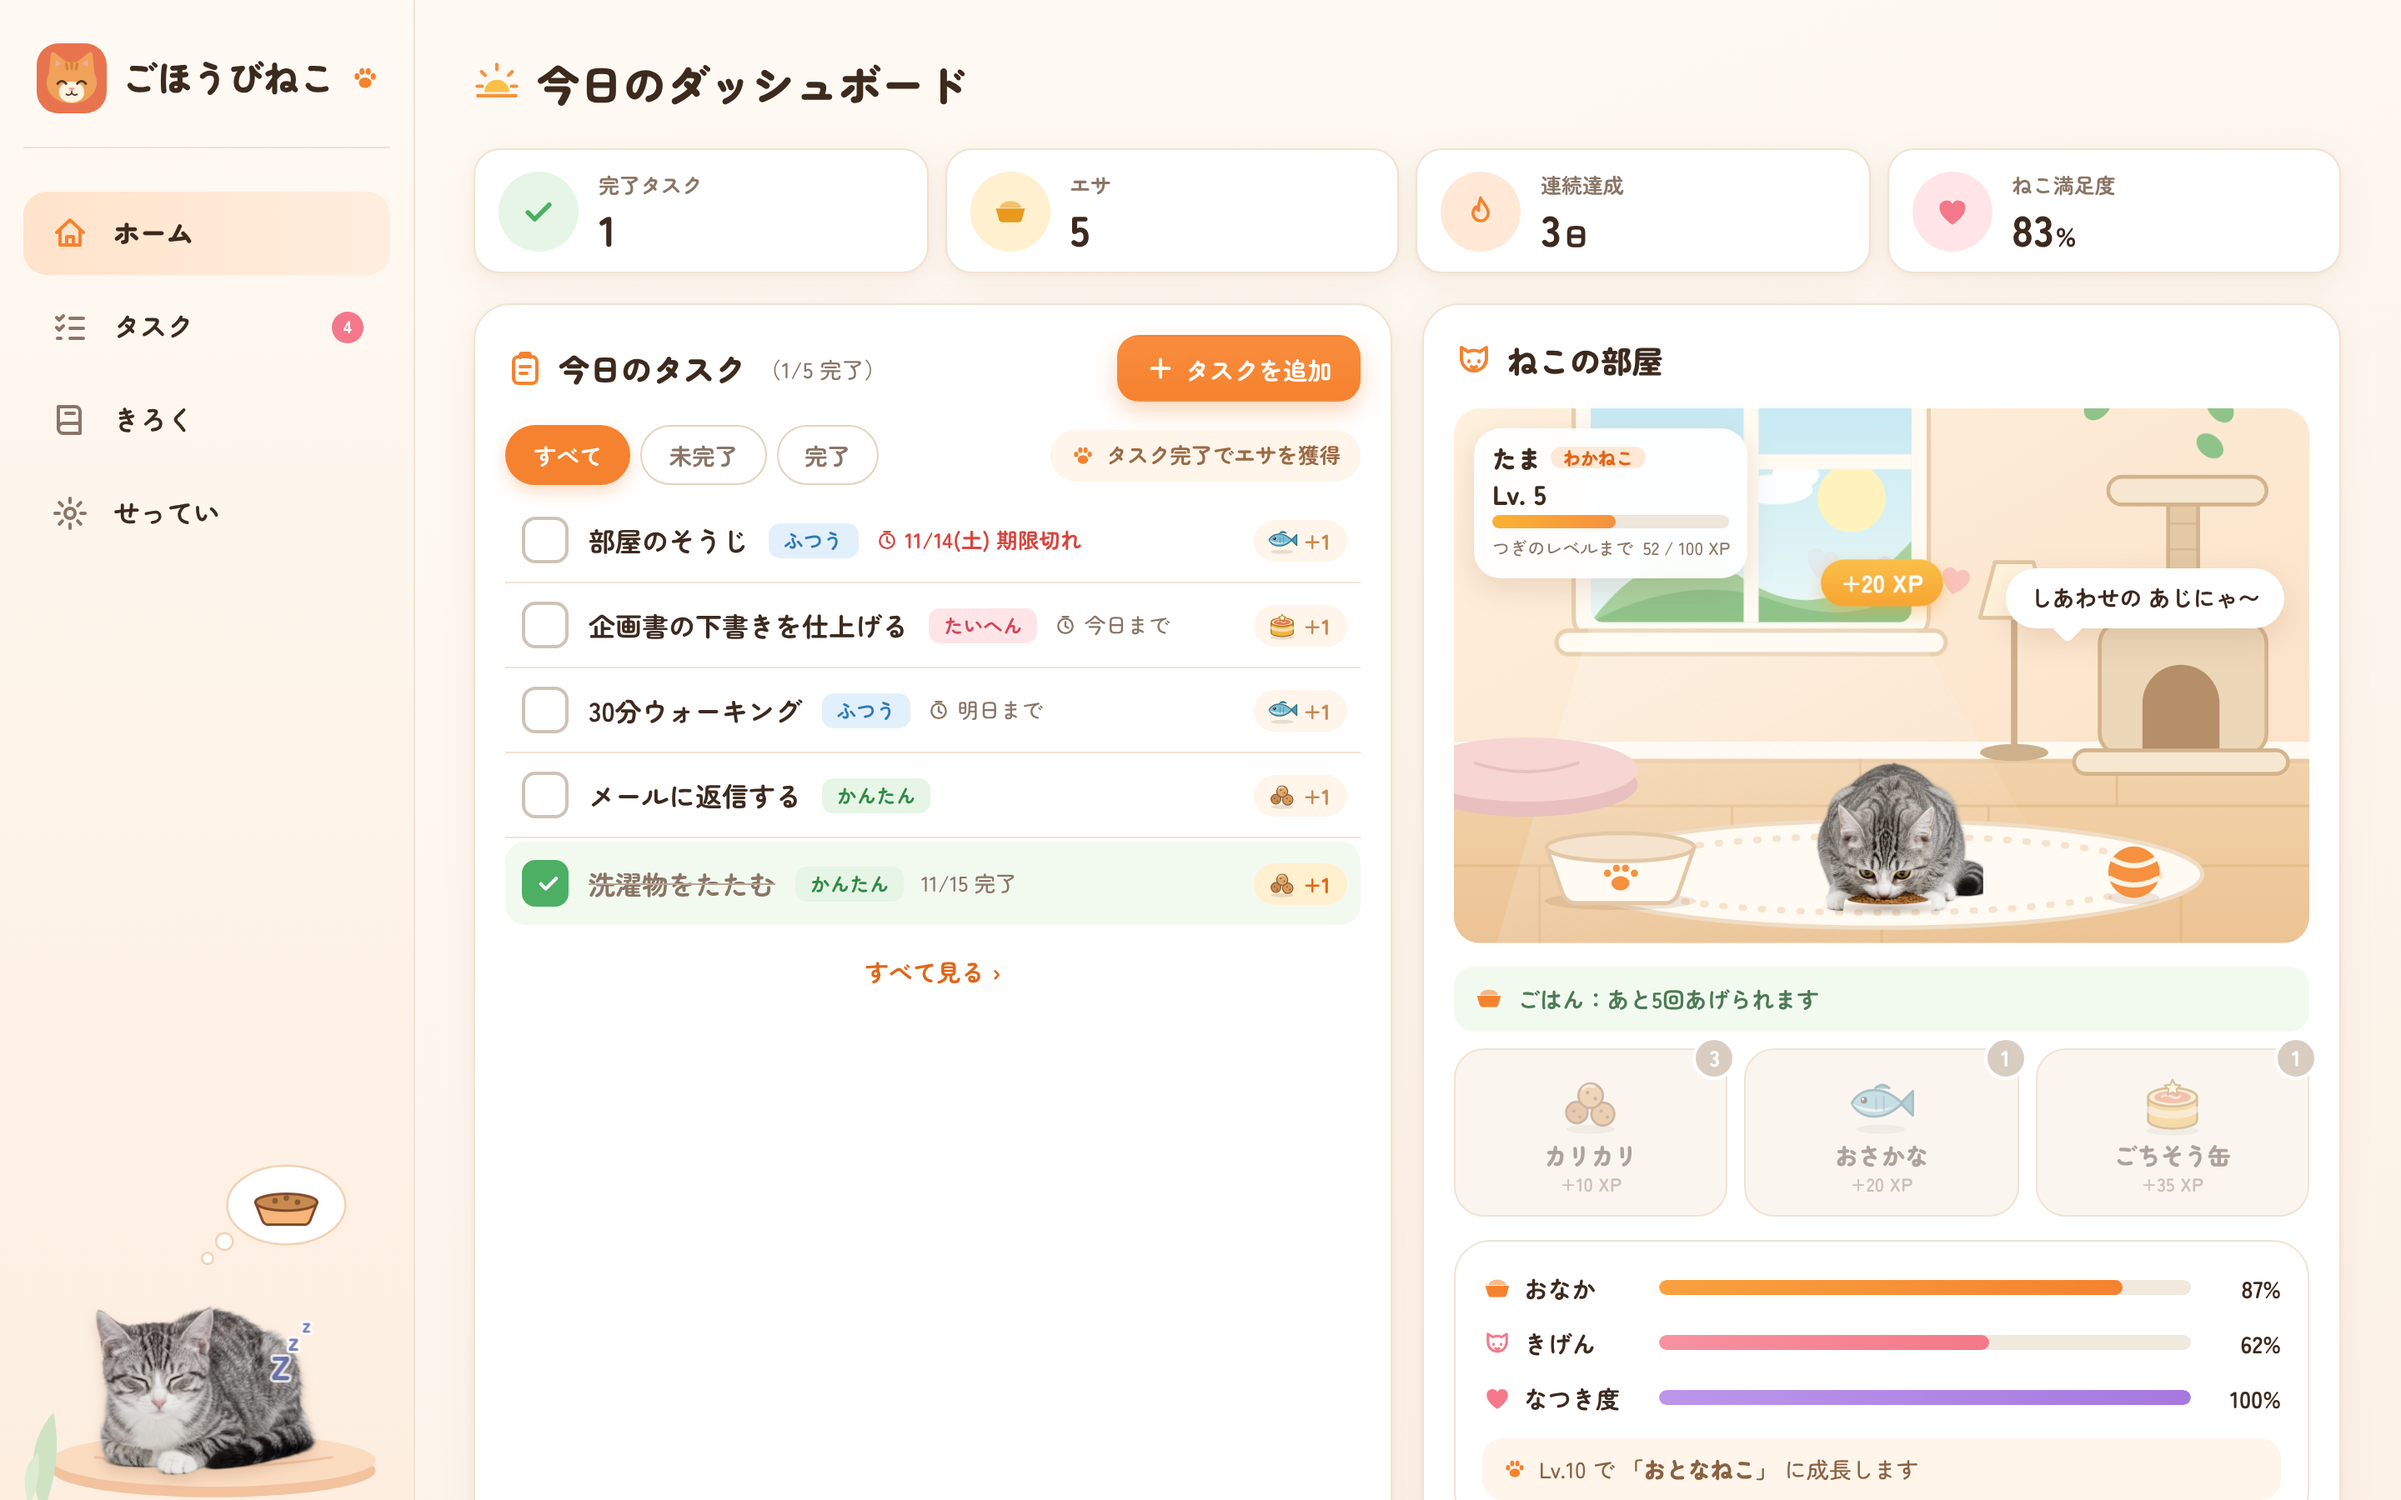
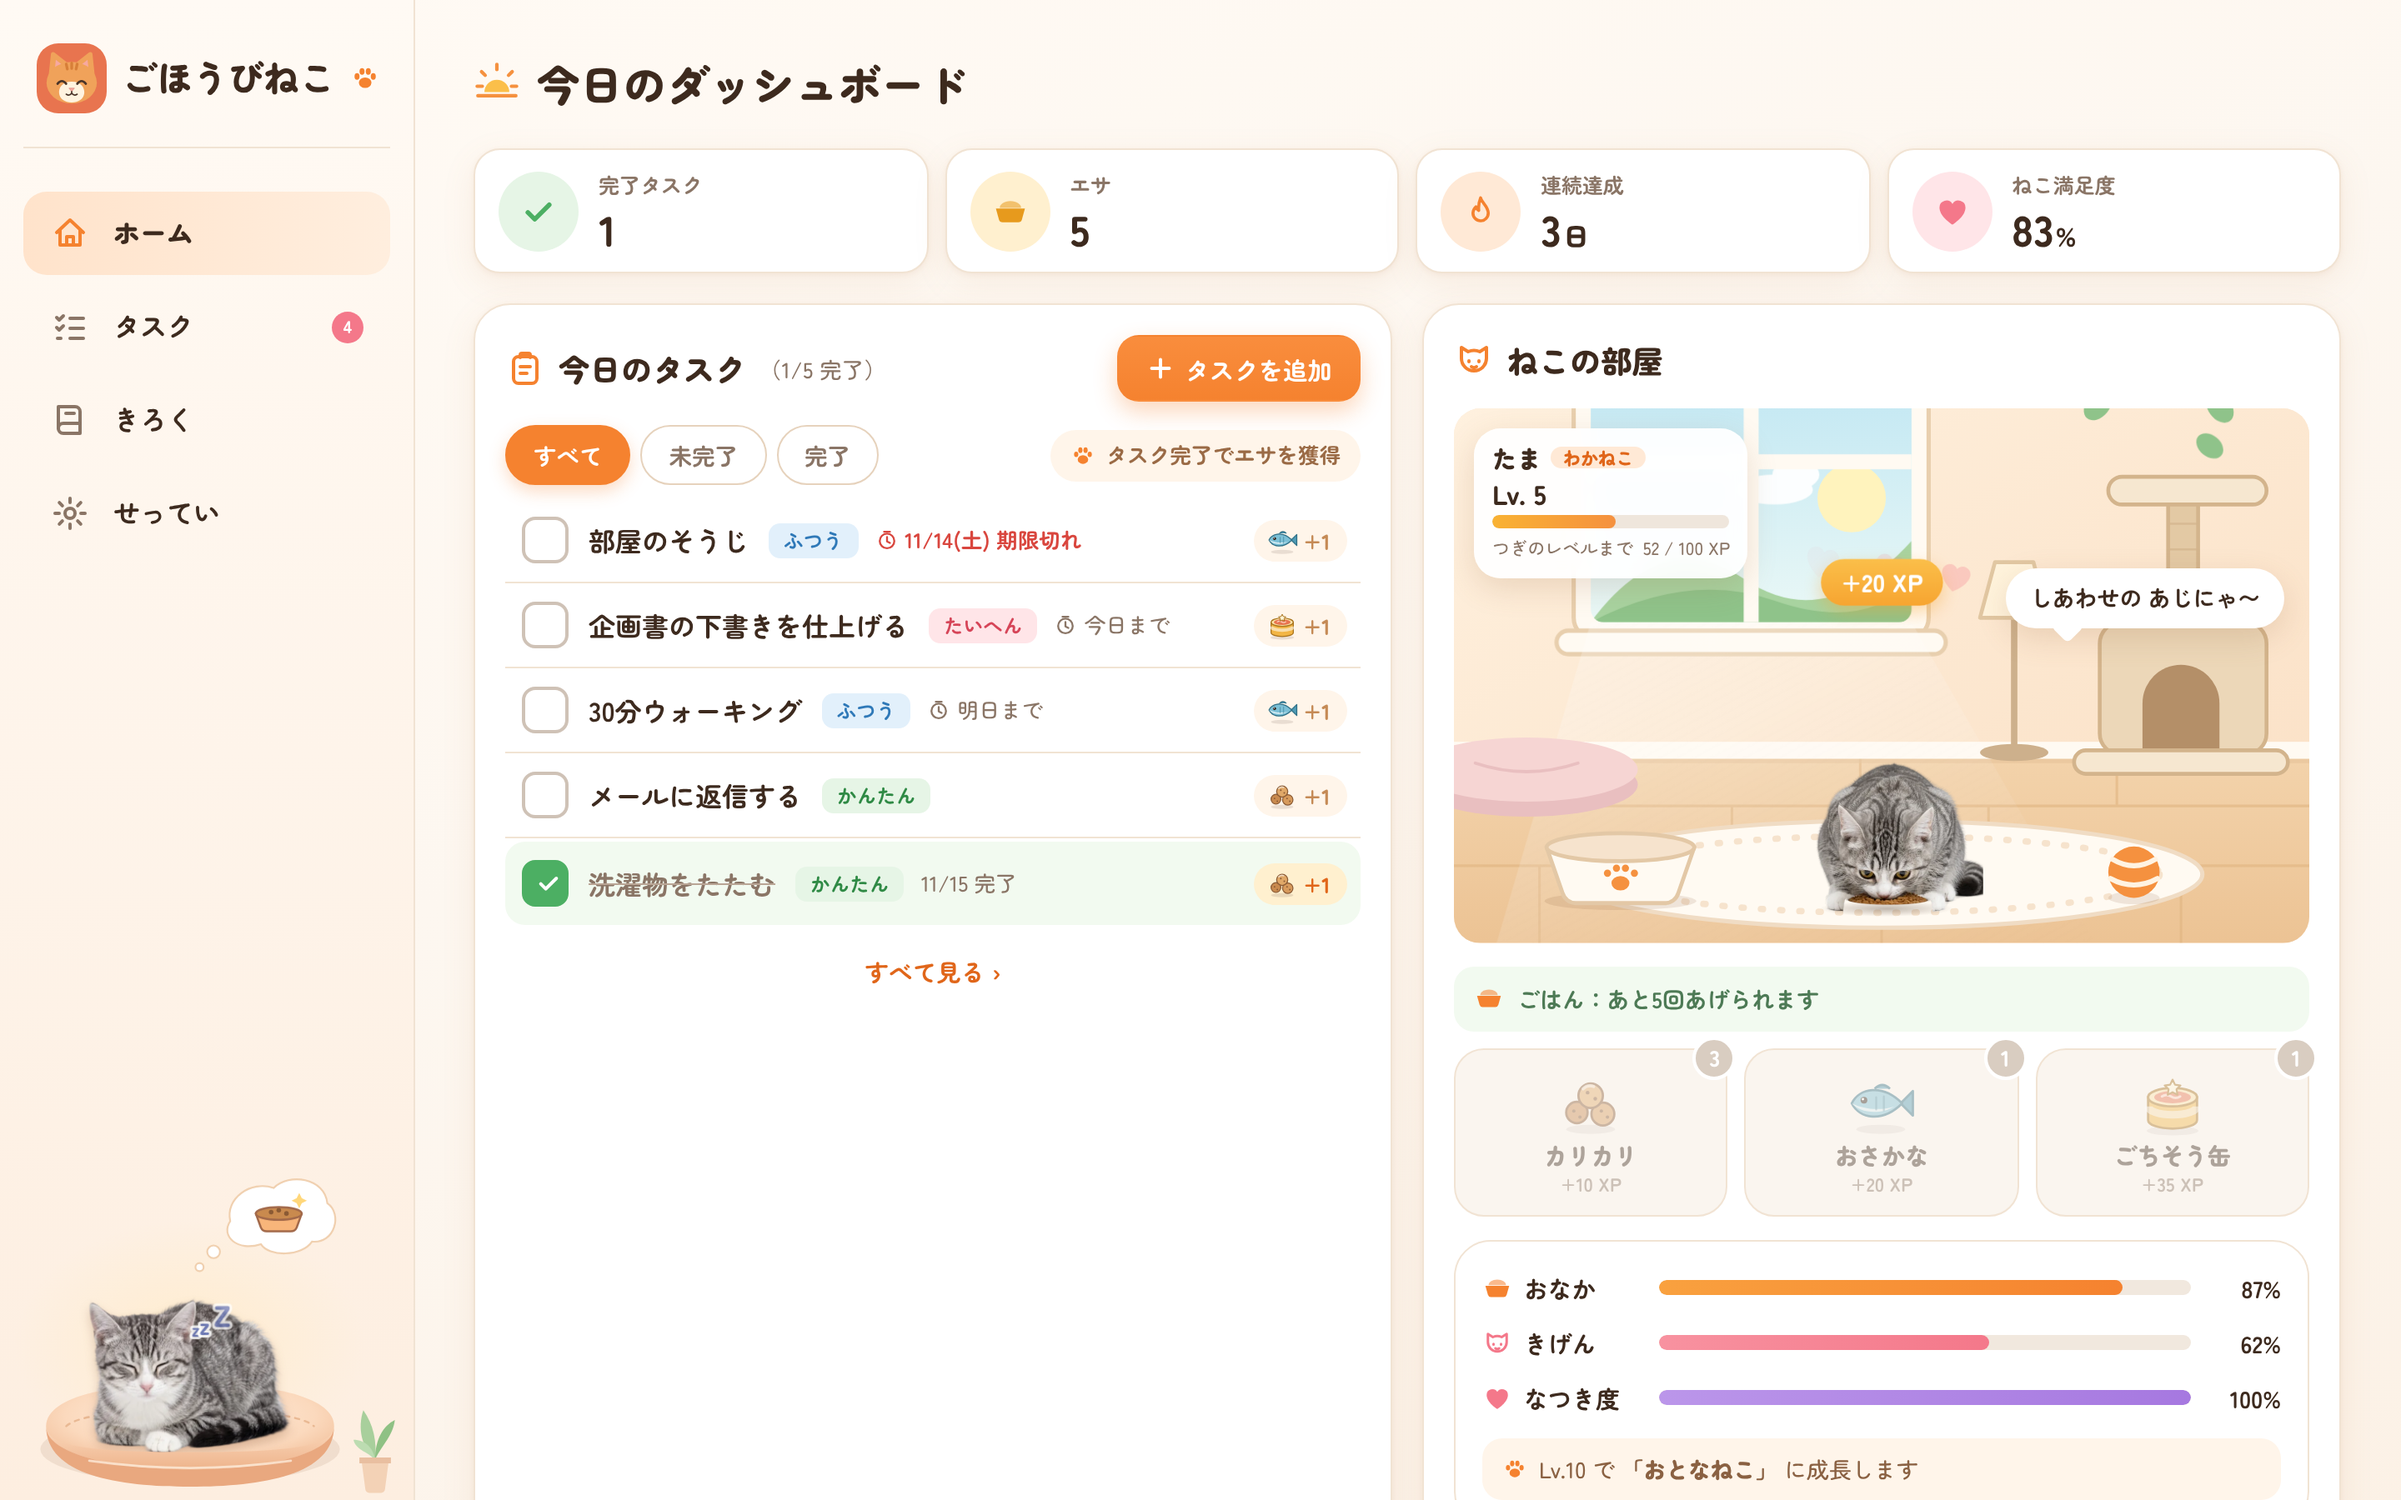
サイドバー左下の眠るねこを作り直し
- ねこがふかふかのクッションに沈み込むよう、クッションを奥と手前のふちに分けて重ねた
- クッションに厚み・縫い目・くぼみの影を付け、足元に光だまりを追加
- ふきだしとZzzを頭の右上にまとめ、植木鉢は右端に分けて配置
- 下寄せが効かずサイドバーの途中に浮いていた問題を修正

Claude-Session: https://claude.ai/code/session_0112UXkmngyyzgaREKQpe6dQ

Changed region(s): [[0.0, 0.8711, 0.1875, 1.0], [0.0938, 0.7778, 0.1562, 0.84]]

diff --git a/src/components/SleepingCat.tsx b/src/components/SleepingCat.tsx
@@ -1,46 +1,83 @@
 /**
- * サイドバー下の飾り：クッションの上でうとうとする、ねこ（写真）。ごはんの夢を見ている。
- * 丸まって眠る写真を使い、ゆっくり呼吸させて Zzz を出す。
+ * サイドバー下の飾り：ふかふかのクッションに沈み込んで眠る、ねこ（写真）。
+ * 奥のクッション → ねこ → 手前のクッションのふち の順に重ねて、体が沈んでいるように見せる。
+ * 頭の上に、ごはんの夢のふきだしと Zzz を出す。
  */
 export function SleepingCat({ className }: { className?: string }) {
-  const line = "#7d4a2b";
+  const line = "#a2694a";
   return (
     <div className={`sleep ${className ?? ""}`} aria-hidden>
-      {/* ごはんの夢のふきだし */}
-      <svg className="sleep__dream" viewBox="0 0 120 80">
-        <circle cx="16" cy="70" r="4" fill="#fff" stroke="#f3d2b3" strokeWidth="1.5" />
-        <circle cx="28" cy="58" r="6" fill="#fff" stroke="#f3d2b3" strokeWidth="1.5" />
-        <ellipse cx="72" cy="32" rx="42" ry="28" fill="#fff" stroke="#f3d2b3" strokeWidth="1.5" />
-        <path d="M50 30h44l-5 13a5 5 0 0 1-5 3H60a5 5 0 0 1-5-3z" fill="#f8b57a" stroke={line} strokeWidth="1.8" strokeLinejoin="round" />
-        <ellipse cx="72" cy="30" rx="22" ry="6" fill="#c98a4e" stroke={line} strokeWidth="1.8" />
-        <g fill="#8a5a34">
-          <circle cx="64" cy="29" r="2" />
-          <circle cx="72" cy="27" r="2" />
-          <circle cx="80" cy="30" r="2" />
-        </g>
-      </svg>
+      {/* やわらかい光だまり */}
+      <span className="sleep__glow" />
 
-      {/* クッション（奥） */}
-      <svg className="sleep__cushion" viewBox="0 0 200 60" preserveAspectRatio="none">
-        <ellipse cx="100" cy="38" rx="96" ry="20" fill="#f3c3a0" />
-        <ellipse cx="100" cy="30" rx="96" ry="20" fill="#fbdcc0" />
-        <path d="M30 28q70 14 140 0" fill="none" stroke="#f3c3a0" strokeWidth="2" strokeLinecap="round" />
+      {/* クッション（奥）：本体と、ねこの体の下の影 */}
+      <svg className="sleep__cushion sleep__cushion--back" viewBox="0 0 220 90">
+        <defs>
+          <radialGradient id="cush-top" cx=".5" cy=".38" r=".62">
+            <stop offset="0" stopColor="#fff1e3" />
+            <stop offset=".7" stopColor="#fbd9bd" />
+            <stop offset="1" stopColor="#f2c09b" />
+          </radialGradient>
+          <radialGradient id="cush-dent" cx=".5" cy=".5" r=".5">
+            <stop offset="0" stopColor="#c98a62" stopOpacity=".42" />
+            <stop offset="1" stopColor="#c98a62" stopOpacity="0" />
+          </radialGradient>
+        </defs>
+        <ellipse cx="110" cy="62" rx="104" ry="24" fill="#7d4a2b" opacity=".1" />
+        <path d="M10 46 C 10 24, 60 16, 110 16 C 160 16, 210 24, 210 46 C 210 66, 160 76, 110 76 C 60 76, 10 66, 10 46 Z" fill="url(#cush-top)" />
+        {/* 縫い目 */}
+        <path d="M24 46 C 40 30, 180 30, 196 46" fill="none" stroke="#e9b994" strokeWidth="1.4" strokeDasharray="3 4" strokeLinecap="round" />
+        {/* ねこが沈むくぼみ */}
+        <ellipse cx="112" cy="50" rx="74" ry="15" fill="url(#cush-dent)" />
       </svg>
 
       {/* ねこ */}
       {/* eslint-disable-next-line @next/next/no-img-element */}
       <img className="sleep__cat" src="/cat/sleep.webp" alt="" width={480} height={720} decoding="async" draggable={false} />
 
+      {/* クッション（手前のふち）：ねこの足元にかぶせて沈み込みを出す */}
+      <svg className="sleep__cushion sleep__cushion--front" viewBox="0 0 220 90">
+        <defs>
+          <linearGradient id="cush-rim" x1="0" y1="0" x2="0" y2="1">
+            <stop offset="0" stopColor="#fbd9bd" />
+            <stop offset="1" stopColor="#eeb48c" />
+          </linearGradient>
+        </defs>
+        <path d="M10 46 C 10 66, 60 76, 110 76 C 160 76, 210 66, 210 46 C 210 60, 180 64, 110 64 C 40 64, 10 60, 10 46 Z" fill="url(#cush-rim)" />
+        <path d="M10 46 C 10 66, 60 76, 110 76 C 160 76, 210 66, 210 46 C 210 80, 160 88, 110 88 C 60 88, 10 80, 10 46 Z" fill="#e9a87f" />
+        <path d="M40 70 q70 10 140 0" fill="none" stroke="#fff3e6" strokeWidth="1.6" strokeLinecap="round" opacity=".7" />
+      </svg>
+
+      {/* 夢のふきだし（頭の右上から、小さな泡でつなぐ） */}
+      <svg className="sleep__dream" viewBox="0 0 120 84">
+        <circle cx="10" cy="76" r="3.2" fill="#fff" stroke="#f0cfae" strokeWidth="1.4" />
+        <circle cx="21" cy="64" r="5" fill="#fff" stroke="#f0cfae" strokeWidth="1.4" />
+        <path d="M34 40 C 30 22, 50 8, 68 14 C 80 2, 108 6, 110 26 C 122 34, 116 58, 98 56 C 90 68, 64 68, 58 58 C 40 64, 26 52, 34 40 Z" fill="#fff" stroke="#f0cfae" strokeWidth="1.4" />
+        <path d="M54 34h36l-4 11a5 5 0 0 1-4.6 3H62.6a5 5 0 0 1-4.6-3z" fill="#f8b57a" stroke={line} strokeWidth="1.6" strokeLinejoin="round" />
+        <ellipse cx="72" cy="34" rx="18" ry="5" fill="#c98a4e" stroke={line} strokeWidth="1.6" />
+        <g fill="#8a5a34">
+          <circle cx="66" cy="33" r="1.8" />
+          <circle cx="72" cy="31.5" r="1.8" />
+          <circle cx="78" cy="34" r="1.8" />
+        </g>
+        <path d="M86 22 l2 -4 2 4 4 2 -4 2 -2 4 -2 -4 -4 -2 z" fill="#ffd77a" />
+      </svg>
+
       <span className="sleep__zzz">
+        <i>z</i>
+        <i>z</i>
         <i>Z</i>
-        <i>z</i>
-        <i>z</i>
       </span>
 
-      {/* 葉っぱ */}
-      <svg className="sleep__leaf" viewBox="0 0 40 90">
-        <path d="M14 90 C 4 60, 8 30, 28 8 C 34 40, 30 66, 22 90Z" fill="#cfe3c4" />
-        <path d="M4 90 C -2 70, 2 54, 14 46 C 16 64, 12 78, 8 90Z" fill="#dcebd2" />
+      {/* 鉢植え */}
+      <svg className="sleep__plant" viewBox="0 0 44 96">
+        <g fill="#a8cf9c">
+          <path d="M22 62 C 8 50, 4 30, 10 12 C 20 26, 24 44, 22 62 Z" />
+          <path d="M22 62 C 30 46, 40 38, 42 22 C 30 28, 22 42, 22 62 Z" fill="#8fc184" />
+          <path d="M22 62 C 14 54, 2 52, 0 42 C 12 42, 20 50, 22 62 Z" fill="#bcdcb1" />
+        </g>
+        <path d="M8 62h28l-4 30a4 4 0 0 1-4 4h-12a4 4 0 0 1-4-4z" fill="#f3d2b6" />
+        <path d="M6 60h32v6H6z" fill="#e9bfa0" rx="2" />
       </svg>
     </div>
   );

diff --git a/src/app/globals.css b/src/app/globals.css
@@ -199,7 +199,7 @@ small { font-size: 0.8em; }
   .nav__link.is-active { background: linear-gradient(90deg, #ffe3cb, #ffeede); color: var(--ink); font-weight: 900; }
   .nav__link.is-active svg { color: var(--accent); }
   .nav__badge { position: static; margin-left: auto; border: 0; }
-  .nav__art { display: block; width: 100%; margin-top: auto; }
+  .nav__art { display: block; width: auto; margin-top: auto; }
 }
 
 /* ---------- 共通パーツ ---------- */
@@ -1124,30 +1124,40 @@ fieldset:disabled .choice__item { opacity: 0.6; cursor: not-allowed; }
 .levelup__confetti i:nth-child(3n + 1) { background: var(--leaf); }
 .levelup__confetti i:nth-child(4n) { background: var(--pink); }
 
-/* サイドバー下：クッションでうとうとする写真のねこ */
-.sleep { position: relative; height: 200px; }
-.sleep__dream { position: absolute; left: 44%; top: 0; width: 46%; animation: dream 4s ease-in-out infinite; }
-.sleep__cushion { position: absolute; left: 6%; right: 2%; bottom: 0; height: 48px; width: 92%; }
+/* サイドバー下：ふかふかのクッションに沈んで眠る写真のねこ */
+.sleep { position: relative; height: 196px; margin-left: -14px; margin-right: -14px; flex: none; }
+.sleep__glow {
+  position: absolute;
+  left: 46%;
+  bottom: 18px;
+  width: 210px;
+  height: 150px;
+  transform: translateX(-50%);
+  border-radius: 50%;
+  background: radial-gradient(closest-side, rgba(255, 236, 205, 0.95), rgba(255, 236, 205, 0));
+}
+.sleep__cushion { position: absolute; left: 46%; bottom: 6px; width: 190px; transform: translateX(-50%); }
 .sleep__cat {
   position: absolute;
-  left: 50%;
-  bottom: 6px;
-  width: 150px;
+  left: 46%;
+  bottom: 20px;
+  width: 136px;
   height: auto;
   transform: translateX(-50%);
   transform-origin: 50% 100%;
-  filter: brightness(0.96) saturate(0.95) drop-shadow(0 4px 4px rgba(125, 74, 43, 0.18));
+  filter: drop-shadow(0 3px 3px rgba(125, 74, 43, 0.22));
   animation: sleep-breathe 4.6s ease-in-out infinite;
   user-select: none;
   pointer-events: none;
 }
-.sleep__zzz { position: absolute; left: 66%; top: 92px; font-weight: 900; color: #5b6bb0; -webkit-text-stroke: 3px #fff; paint-order: stroke fill; }
-.sleep__zzz i { position: absolute; font-style: normal; opacity: 0; animation: c-zzz 3s ease-in-out infinite; }
-.sleep__zzz i:nth-child(1) { left: 0; top: 20px; font-size: 20px; }
-.sleep__zzz i:nth-child(2) { left: 14px; top: 2px; font-size: 15px; animation-delay: 0.6s; }
-.sleep__zzz i:nth-child(3) { left: 26px; top: -12px; font-size: 12px; animation-delay: 1.2s; }
-.sleep__leaf { position: absolute; left: 0; bottom: 0; width: 26px; }
-@keyframes sleep-breathe { 0%, 100% { transform: translateX(-50%) scale(1, 1); } 50% { transform: translateX(-50%) scale(1.01, 1.025); } }
+.sleep__dream { position: absolute; left: 112px; top: 2px; width: 92px; animation: dream 4s ease-in-out infinite; }
+.sleep__zzz { position: absolute; left: 112px; top: 74px; font-weight: 900; color: #6c7bbf; -webkit-text-stroke: 3px #fff; paint-order: stroke fill; }
+.sleep__zzz i { position: absolute; font-style: normal; opacity: 0; animation: c-zzz 3.2s ease-in-out infinite; }
+.sleep__zzz i:nth-child(1) { left: 0; top: 18px; font-size: 11px; }
+.sleep__zzz i:nth-child(2) { left: 9px; top: 6px; font-size: 14px; animation-delay: 0.7s; }
+.sleep__zzz i:nth-child(3) { left: 21px; top: -10px; font-size: 18px; animation-delay: 1.4s; }
+.sleep__plant { position: absolute; right: 10px; bottom: 4px; width: 26px; }
+@keyframes sleep-breathe { 0%, 100% { transform: translateX(-50%) scale(1, 1); } 50% { transform: translateX(-50%) scale(1.012, 1.03); } }
 @keyframes dream { 50% { transform: translateY(-4px); } }
 
 /* ---------- ねこ（写真）の表示とうごき ---------- */
